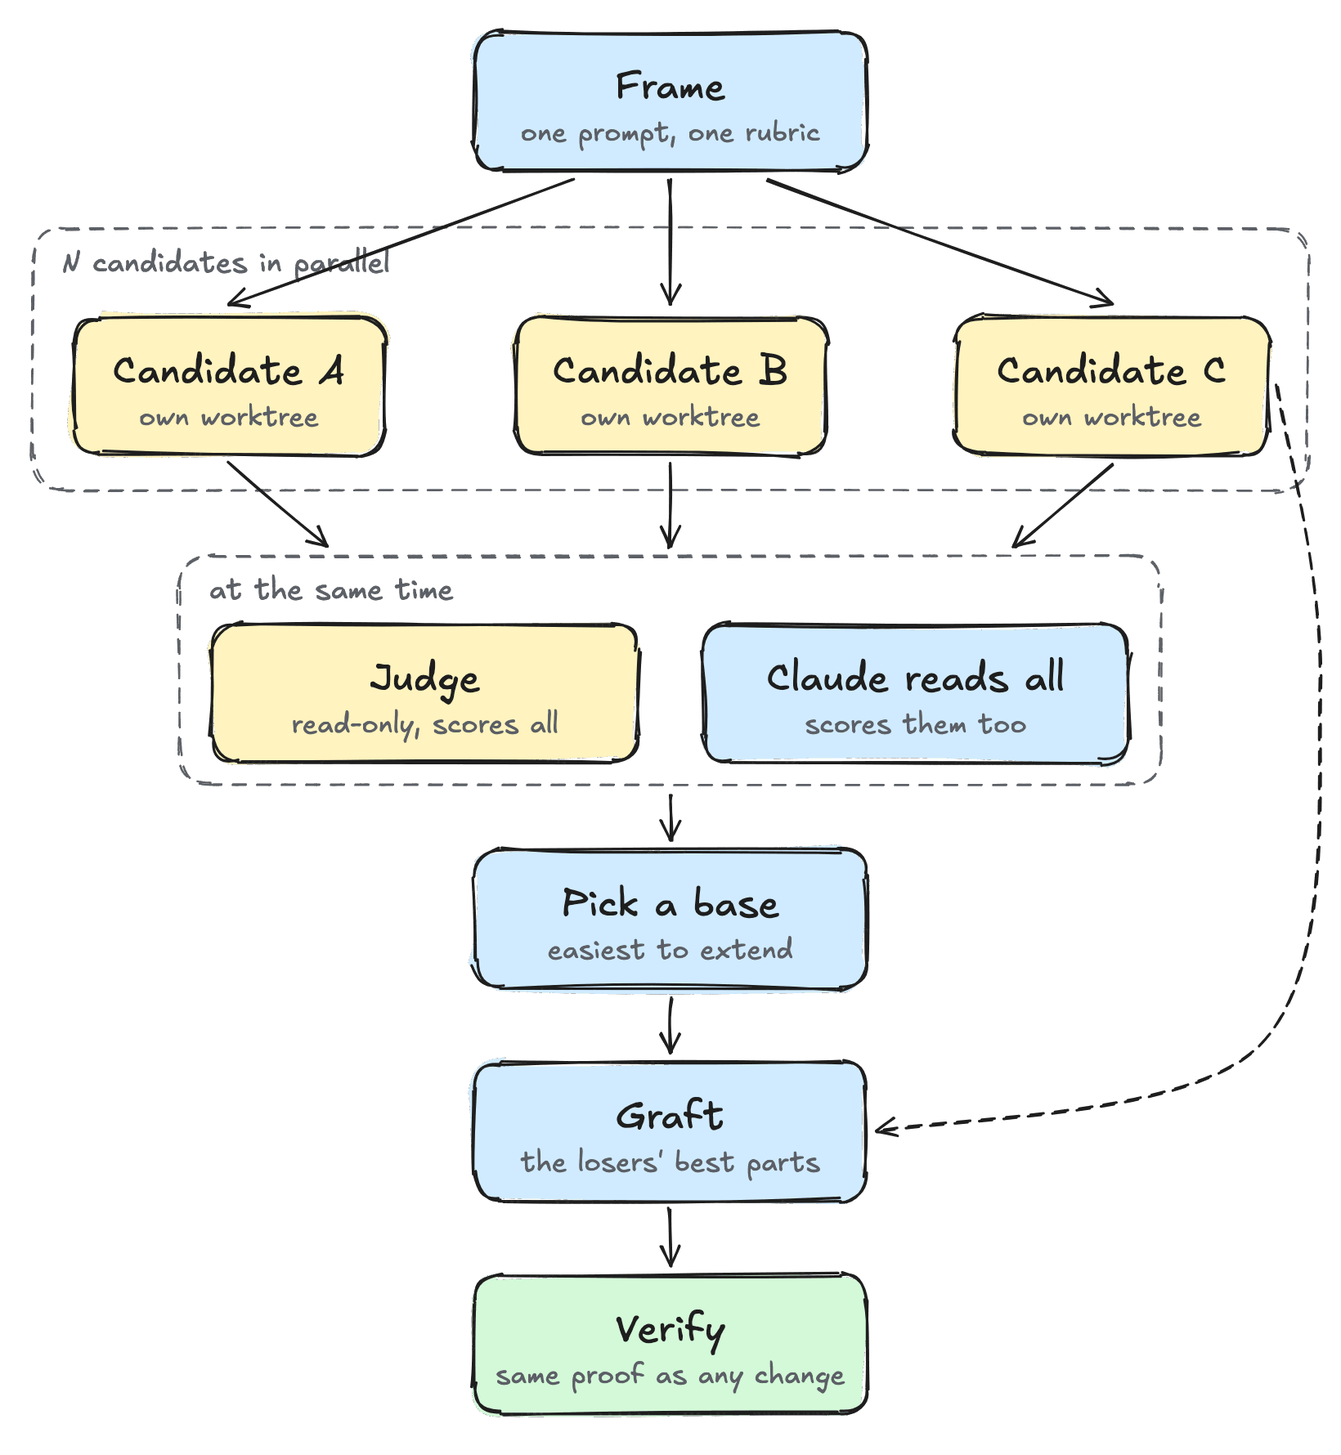
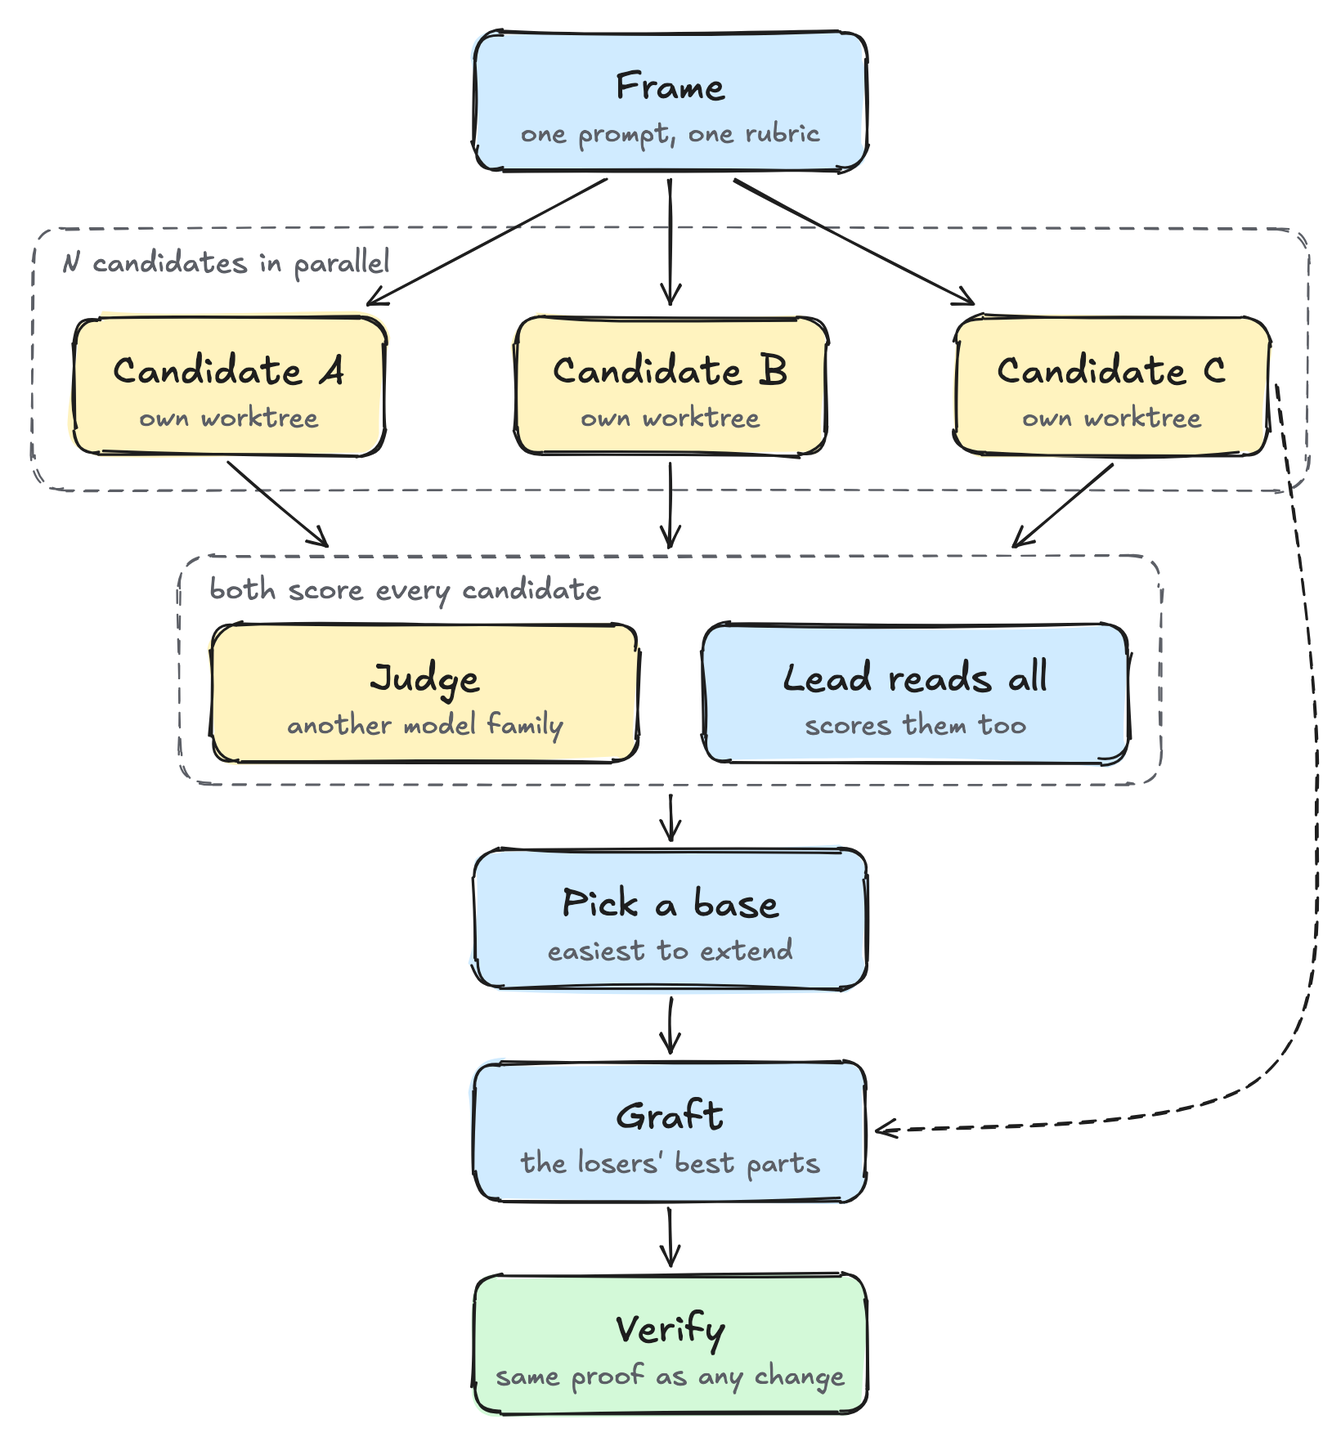
docs(writings): match the Orbit series to current orbit
Orbit now runs in T3 Code under any provider, the advisor runs on Fable, rules print from three hooks, pstack is pinned at e1cc031, arena's judge and interrogate's adversaries changed, and /orbit:setup comes first. The diagrams name the lead instead of Claude, add the gitops commit and the Next: line, and drop claims the skills no longer make.

diff --git a/content/posts/orbit-principles.md b/content/posts/orbit-principles.md
@@ -12,13 +12,15 @@ Orbit doesn't trust a model's first answer, whether that answer is code, a desig
 
 An agent that reviews its own change still has its plan in context. It reads the diff as what it meant to write. Its tests come from the same plan, so they pass for the same reasons the code does.
 
-Orbit gives the jobs to different agents. The main chat plans and reviews. A fresh subagent writes each piece of code. Before anything lands, another agent, the verifier, runs the change the way a user would. The verifier:
+Orbit gives the jobs to different agents. The lead, the chat that runs the playbook, plans and reviews. A fresh subagent writes each piece of code. Before anything lands, another agent, the verifier, runs the change the way a user would. The verifier:
 
 - gets the goal and the commits, not the plan
 - commits nothing, so a bug it finds goes back to a writer instead of getting patched and passed
 - runs the old version too, and reports what changed between the two
 
-![The writer side plans the change and writes the code and its tests from the same plan. The diff goes to a verifier subagent that starts fresh, gets the goal and the diff but not the plan, and runs the old and new versions with no edit tools. PASS merges. FAIL sends the fix to a fresh writer.](/writings/orbit-verifier.png)
+In a T3 thread with providers set in `/orbit:setup`, the verifier runs on another provider family.
+
+![The writer side plans the change and writes the code and its tests from the same plan. The diff goes to a verifier that starts fresh and can run on another provider family in T3. It gets the goal and the diff but not the plan, and runs the old and new versions without committing anything. PASS lands the change. FAIL sends the fix to a fresh writer.](/writings/orbit-verifier.png)
 
 In early November the verifier failed a change whose tests all passed. The change kept a user's rating when they retried an answer, and its tests covered retries. The verifier also stopped an answer mid-stream, rated it, and opened that run from its dashboard link. The page said the run didn't exist. The plan was only about retries, and the tests came from the plan.
 
@@ -28,37 +30,37 @@ When a review or the verifier finds a problem, a new agent writes the fix. It ge
 
 The first design a model writes is rarely the best, and it gets expensive to change once code is built on it. For a design with more than one reasonable shape, Orbit runs `/orbit:arena`.
 
-![Frame writes one prompt and one rubric. N candidates work in parallel, each in its own worktree. A read-only judge scores them all while Claude reads and scores them too. Claude picks the base that is easiest to extend, grafts the best parts of the losers into it, and verifies the result like any change.](/writings/orbit-arena.png)
+![Frame writes one prompt and one rubric. N candidates work in parallel, each in its own worktree. A read-only judge on another model family scores them all while the lead reads and scores them too. The lead picks the base that is easiest to extend, grafts the best parts of the losers into it, and verifies the result like any change.](/writings/orbit-arena.png)
 
-1. Claude writes one prompt and a rubric of 3 to 6 criteria.
+1. The lead writes one prompt and a rubric of 3 to 6 criteria.
 2. Two or more candidates build it in parallel, each in its own worktree. By default one runs on Opus and one on the session's model.
-3. A read-only judge scores every candidate, and Claude scores them too. If they disagree, the rubric was unclear or one of them is biased.
-4. Claude picks the candidate that is easiest to extend as the base.
-5. Claude copies the best one or two ideas from the other candidates into the base.
+3. A read-only judge scores every candidate, and the lead scores them too. If they disagree, the rubric was unclear or one of them is biased. The judge never runs on the lead's family. In T3 with providers set in `/orbit:setup`, it is the seat on another family. Without one, a different Claude model stands in, and if both candidate models are the lead's own, the lead picks alone.
+4. The lead picks the candidate that is easiest to extend as the base.
+5. The lead copies the best one or two ideas from the other candidates into the base.
 6. The result is verified like any other change.
 
-Reviews use the same idea. `/orbit:interrogate` sends a change to two read-only reviewers on different models. A problem that both find on their own counts the most.
+Reviews use the same idea. `/orbit:interrogate` first fixes the problems already known, such as open review comments, confirmed bugs and failing checks. Then two adversaries try to break the change, by default one on Opus and one on the session's model, each keeping its repros in its own worktree. In T3 with providers set, a seat on another family replaces the second one. A finding survives only when a run proves it, and interrogate reports its findings without fixing them.
 
 ## Experiments replace questions
 
-Some questions have an answer you can measure, such as which layout reads better at phone width, or whether streaming is faster than buffering for a 50 MB file. Before Claude asks me which option I want, it checks whether a test would answer it.
+Some questions have an answer you can measure, such as which layout reads better at phone width, or whether streaming is faster than buffering for a 50 MB file. Before the lead asks me which option I want, it checks whether a test would answer it.
 
-If a test would, Claude builds a throwaway prototype in a scratch folder, runs each option, and comes back with screenshots or timings and a recommendation. The prototype never ships.
+If a test would, the lead builds a throwaway prototype in a scratch folder, runs each option, and comes back with screenshots or timings and a recommendation. The prototype never ships.
 
 On one run, a plan assumed subagents cannot start their own subagents. Instead of asking me, Orbit tested it in an empty repo, had the answer 12 seconds later, and changed the plan.
 
-Claude still asks me about product decisions that no test can answer. For anything that's easy to undo, it decides, does the work, and tells me why.
+The lead still asks me about product decisions that no test can answer. For anything that's easy to undo, it decides, does the work, and tells me why.
 
 ## Each kind of task has its own steps
 
-- **A bug.** Claude reproduces it first and, when a test is cheap, commits a test that fails on today's code. The fix lands after, in its own commit. The test existed before the fix did, so it can't be shaped to fit it, and a pass means the fix works.
-- **A slow endpoint.** Claude measures a baseline first, and explains what limited a speedup before reporting it.
-- **A question.** Claude answers with citations and changes no code.
+- **A bug.** Orbit reproduces it first and, when a test is cheap, commits a test that fails on today's code. The fix lands after, in its own commit. The test existed before the fix did, so it can't be shaped to fit it, and a pass means the fix works.
+- **A slow endpoint.** Orbit measures a baseline first, and explains what limited a speedup before reporting it.
+- **A question.** Orbit answers with citations and changes no code.
 
 ## Every rule has a name
 
-Orbit has 24 principles, copied from pstack, such as "subtract before you add", "attack the premise" and "prove it works". Each one is a short rule plus the situation that triggers it. Claude keeps a one-line list of all 24 and reads a principle in full only when its situation comes up.
+Orbit has 24 principles, copied from pstack, such as "subtract before you add", "attack the premise" and "prove it works". Each one is a short rule plus the situation that triggers it. The lead keeps a one-line list of all 24 and reads a principle in full only when its situation comes up.
 
-If two fixes for a flaky test fail the same check, "attack the premise" applies. Claude writes down what both fixes assumed and tests that before trying a third.
+If two fixes for a flaky test fail the same check, "attack the premise" applies. The lead writes down what both fixes assumed and tests that before trying a third.
 
-Claude's reply names each principle that changed a decision, so I can see why it chose what it did. I can also use a name to redirect it. Saying "laziness protocol" tells Claude to drop a new abstraction and make the smallest change.
+The lead's reply names each principle that changed a decision, so I can see why it chose what it did. I can also use a name to redirect it. Saying "laziness protocol" tells the lead to drop a new abstraction and make the smallest change.

diff --git a/content/posts/orbit-introduction.md b/content/posts/orbit-introduction.md
@@ -17,6 +17,8 @@ claude plugin marketplace add aayushbtw/orbit
 claude plugin install orbit@orbit
 ```
 
+Then `/orbit:setup` reports each missing tool with its install command and checks the project. It changes nothing until I say yes.
+
 ## How a task runs
 
 Every task starts with one command and a goal.
@@ -25,12 +27,12 @@ Every task starts with one command and a goal.
 /orbit:start <goal>
 ```
 
-![You run /orbit:start with a one-line goal. Claude picks the playbook and makes a worktree. A fresh subagent writes one unit, Claude reviews and runs it, and the loop repeats for the next unit. Claude cleans up the diff, a verifier subagent that never saw the code runs it, and the change merges only on PASS.](/writings/orbit-flow.png)
+![You run /orbit:start with a one-line goal. The lead picks the playbook and makes a worktree. A fresh subagent writes a unit, the lead reviews and runs it, gitops commits it, and the loop repeats. The lead cleans up the diff, a fresh verifier that never saw the plan runs it, the change lands only on PASS, and you get a Next: line.](/writings/orbit-flow.png)
 
 1. **It picks a playbook.** Orbit reads the goal and decides what kind of work it is, such as a bug, a feature, a refactor or a question, and each kind has its own steps.
 2. **It works in its own copy of the repo.** Each change gets its own git worktree, so several tasks can run at once without touching each other's files.
 3. **A big plan gets a second opinion.** If the change adds a module or touches more than 3 files, a read-only reviewer called the advisor checks the plan before any code exists.
-4. **A fresh agent writes each piece.** The main chat does not write code. It hands one small piece at a time to a new agent, reads the diff and runs the project's checks. An agent called gitops commits it before the next piece starts.
+4. **A fresh agent writes each piece.** The lead, the chat that runs the playbook, does not write code. It hands one small piece at a time to a new agent, reads the diff and runs the project's checks. An agent called gitops commits it before the next piece starts.
 5. **It cleans the diff.** Before review, a deslop pass removes AI-generated code slop, and an agent called comment-sicko deletes comments that only repeat the code.
 6. **A verifier runs it before it lands.** Another new agent, one that works in its own copy and commits nothing, runs the change and the commit before it the way a user would, and returns pass or fail. A fail sends the work back.
 
@@ -38,26 +40,31 @@ Steps 4 and 6 matter most, because the agent that wrote the code is the worst on
 
 ## Rules, skills and agents
 
-- **Rules.** `rules.md` holds triggers and defaults, such as naming the data shape before writing code and running the cleanup skill before a commit. A hook prints it into every session, so the rules apply without a command. Its first line tells Claude to send any goal that names no skill through `/orbit:start`.
+- **Rules.** `rules.md` holds triggers and defaults, such as naming the data shape before writing code and running the cleanup skill before a commit. Hooks print it into every Claude Code session, so the rules apply without a command. Its first line tells the lead to send any goal that names no skill through `/orbit:start`.
 - **Skills.** Each kind of work has a playbook skill with numbered steps and a list of what the final reply must contain. Under them sit 24 principles, one skill each. Helper skills such as `/orbit:how`, `/orbit:why` and `/orbit:interrogate` run inside a playbook or on their own.
-- **Agents.** Each agent in the steps above is one file that sets its tools and model. The verifier and the advisor get no edit tools. The advisor runs on Opus, and gitops runs on Sonnet because git work does not need a bigger model. Each new piece of work goes to a fresh agent with one full brief, because instructions sent to a running agent can get lost.
+- **Agents.** Each agent in the steps above is one file that sets its tools and model. The advisor gets no edit tools, and the verifier can write only scratch files and commits nothing. The advisor runs on Fable, and gitops runs on Sonnet because git work does not need a bigger model. Each new piece of work goes to a fresh agent with one full brief, because instructions sent to a running agent can get lost.
 
-Claude Code keeps only about 10 KB of one hook's output. When a change pushed `rules.md` past that, the routing line was cut off, and Orbit skipped goals typed without `/orbit:start` in 6 test runs out of 6. Every test still passed, and only the verifier caught it. The file now prints in two halves from two hooks.
+Claude Code keeps only about 10 KB of one hook's output. When a change pushed `rules.md` past that, the routing line was cut off, and Orbit skipped goals typed without `/orbit:start` in 6 test runs out of 6. Every test still passed, and only the verifier caught it. The file now prints in three parts from three hooks.
 
 ## Built on pstack
 
-Most of Orbit is [pstack](https://github.com/cursor/plugins/tree/main/pstack), Lauren Tan's plugin, built from the agent workflows they use every day at Cursor. Orbit copies it at one fixed commit, `9580c23`, and ports it to Claude Code. The main differences:
+Most of Orbit is [pstack](https://github.com/cursor/plugins/tree/main/pstack), Lauren Tan's plugin, built from the agent workflows they use every day at Cursor. Orbit copies it at one fixed commit, `e1cc031`, and ports it to Claude Code. The main differences:
 
 - **Rules load on their own.** In pstack you type a command per task to load them.
 - **One entry point.** `/orbit:start` picks the playbook.
 - **Extra agents.** pstack ships the code writer and the comment cleaner. Orbit adds gitops, the advisor and the verifier.
 - **Landing by default.** A verified change lands unless I say "don't ship".
+- **A T3 Code adapter.** pstack's only adapter maps it to Claude Code. Orbit adds one for T3 Code, so a thread led by another provider can run it.
 
-Every difference has a row in [docs/pstack-differences.md](https://github.com/aayushbtw/orbit/blob/main/docs/pstack-differences.md) that quotes pstack and gives the reason. A script fails on any Orbit text taken from a newer pstack than the pin, and on any quote in that doc that pstack does not contain.
+Every difference has a row in [docs/pstack-differences.md](https://github.com/aayushbtw/orbit/blob/main/docs/pstack-differences.md) that quotes pstack and gives the reason.
+
+## Run on any provider in T3
+
+Orbit also runs in a [T3 Code](https://github.com/pingdotgg/t3code) thread led by Claude or by another provider, such as Codex or Grok. Only a Claude lead gets `rules.md` from the hooks, so a lead on another provider loads it through orbit's `rules` skill. In a T3 thread, `/orbit:setup` asks once which providers fill a review panel's seat on another model family, and the same providers run the verifier before a change lands. With none listed, those seats stay on the lead's family. In live T3 runs, a Claude lead passed 16 of 16 scenarios, and a Codex lead passed 17 of 17 with its code children on gpt-6.1-sol.
 
 ## Limits
 
-- **Claude Code only.**
+- **Only Claude and Codex leads are proven.** Every Grok run so far stopped on a usage error before the lead acted.
 - **Every change runs the full loop.** A one-line fix still gets a fresh agent, a review and a verifier.
 - **It spends more tokens than Claude Code without it.** Each piece and each verifier starts a new agent.
 - **Routing is a rate.** A goal typed without `/orbit:start` goes through Orbit most of the time, not every time. In one test it was 11 runs out of 12.

diff --git a/content/posts/orbit-usage.md b/content/posts/orbit-usage.md
@@ -6,7 +6,7 @@ series: Orbit
 part: 3
 ---
 
-The words in your `/orbit:start` goal decide which steps run, whether the change lands, and whether Orbit stops to ask you. Orbit writes the steps as a todo list you can watch, and a step it skips stays on the list with the reason. [docs/usage.md](https://github.com/aayushbtw/orbit/blob/main/docs/usage.md) lists every command.
+The words in your `/orbit:start` goal decide which steps run, whether the change lands, and whether Orbit stops to ask you. Orbit puts the steps in the host's own task list, and a step it skips stays there with the reason. When the goal holds two or more separate tasks, the reply also shows a checklist of those tasks. [docs/usage.md](https://github.com/aayushbtw/orbit/blob/main/docs/usage.md) lists every command.
 
 ## The goal for each kind of work
 
@@ -21,7 +21,7 @@ The words in your `/orbit:start` goal decide which steps run, whether the change
 ## Steer a run with a few words
 
 - **"don't ship"** stops the change before it lands. Run `/orbit:ship` when you are ready, and a verifier checks it first.
-- **"continue"** or **"do it"** picks the todo list back up. **"new task"** starts a fresh one.
+- **"continue"** or **"do it"** picks the task list back up. **"new task"** starts a fresh one.
 - **"going to bed"** or **"don't stop"** keeps it running instead of pausing to ask.
 
 To stop in the middle of a task, run `/orbit:pause-safely`. It finishes the current step, commits a work-in-progress checkpoint and writes a resume note. In a new session, `/orbit:session-pickup` reads that note and the git log and carries on without redoing finished work.
@@ -40,15 +40,17 @@ Every reply ends with one `Next:` line.
 - `/orbit:how <subsystem>` explains how something works and where new code belongs.
 - `/orbit:why <code or decision>` explains why code is the way it is, from git history and PRs.
 
-## Set up a new project in four steps
+## Set up a new project in five steps
 
 Take each step only after the last one has held up.
 
-**1. One small bug, no landing.** Give it something low stakes and end the goal with "don't ship". Read the diff and the reply, then run `/orbit:ship` yourself.
+**1. Run `/orbit:setup`.** It reports each missing tool with its install command, checks the git repo and its Workflow block, compares the installed Orbit with the marketplace copy, and checks what Codex and Grok load. In a T3 thread it also asks which providers fill the seats on another family. It changes nothing until you say yes.
 
-**2. A verify skill.** Run `/orbit:create-verification-skill` once. It reads the repo and writes a skill that tells the verifier how to launch your app, check it is healthy, drive it, and clean up. Without one, the verifier falls back to a generic browser or terminal driver, which knows nothing about your app. With the skill in place, I stop adding "don't ship".
+**2. One small bug, no landing.** Give it something low stakes and end the goal with "don't ship". Read the diff and the reply, then run `/orbit:ship` yourself.
 
-**3. A Workflow block for anything your project does differently.** Orbit assumes [Vite+](https://viteplus.dev), runs `vpr check` before landing, and fast-forwards onto `main`. If your project differs, add a `## Workflow` block to its AGENTS.md with only the lines that differ.
+**3. A verify skill.** Run `/orbit:create-verification-skill` once. It reads the repo and writes a skill that tells the verifier how to launch your app, check it is healthy, drive it, and clean up. Without one, the verifier falls back to a generic browser or terminal driver, which knows nothing about your app. With the skill in place, I stop adding "don't ship".
+
+**4. A Workflow block for anything your project does differently.** Orbit assumes [Vite+](https://viteplus.dev), runs `vpr check` before landing, and fast-forwards onto `main`. If your project differs, add a `## Workflow` block to its AGENTS.md with only the lines that differ. When a project has no block and no `vpr`, `/orbit:setup` offers a filled one.
 
 ```md
 ## Workflow
@@ -62,8 +64,9 @@ Take each step only after the last one has held up.
 - `Check` replaces the commands that must pass before anything lands.
 - `Land: pr` makes Orbit open a PR, take it through review comments and CI, and merge it once a verifier passes it. This is the one to use on a team.
 - `Before code` names a guide for a path. Every agent writing code under that path reads it first.
-- `Review also checks` names docs the plan reviewer reads.
+- `Review also checks` names docs read before planning and at review.
+- A `### Models` table under the block sets the model and effort for each kind of work, and for roles such as the verifier.
 
-**4. A queue.** Once single changes land cleanly, hand it a list with `autopilot this queue`. If you want to review before anything merges, say "build the stack, I'll land it" instead. Orbit builds and verifies the same way, then hands you one stack of PRs to land with `/orbit:ship`.
+**5. A queue.** Once single changes land cleanly, hand it a list with `autopilot this queue`. If you want to review before anything merges, say "build the stack, I'll land it" instead. Orbit builds and verifies the same way, then hands you one stack of PRs to land with `/orbit:ship`.
 
 The source is on [GitHub](https://github.com/aayushbtw/orbit). Start with `rules.md`, then the playbook for the kind of work you do most.
